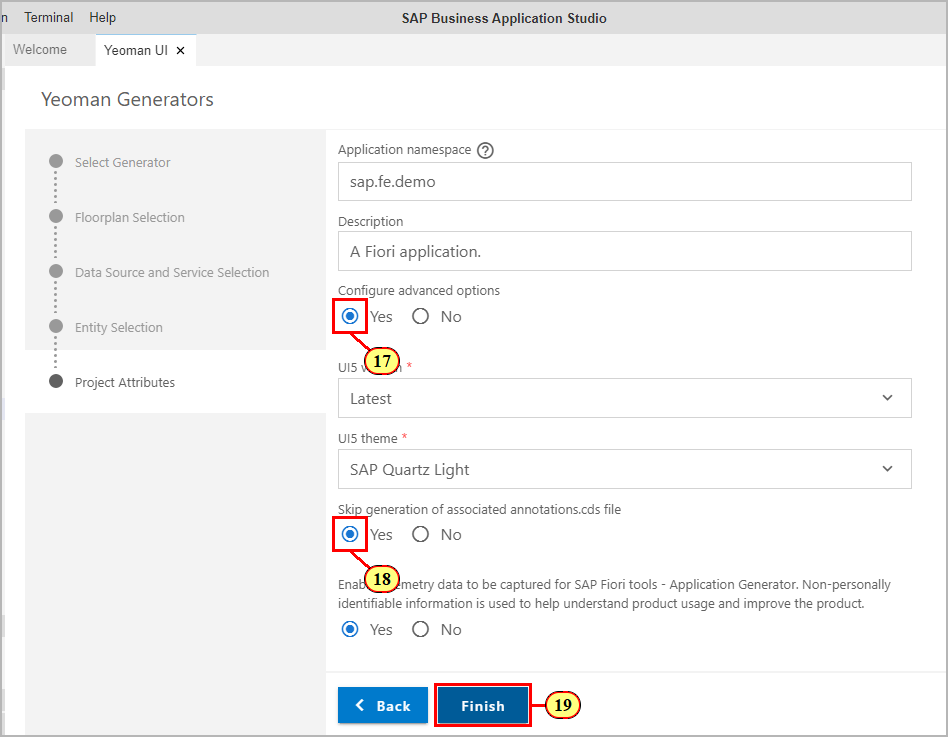
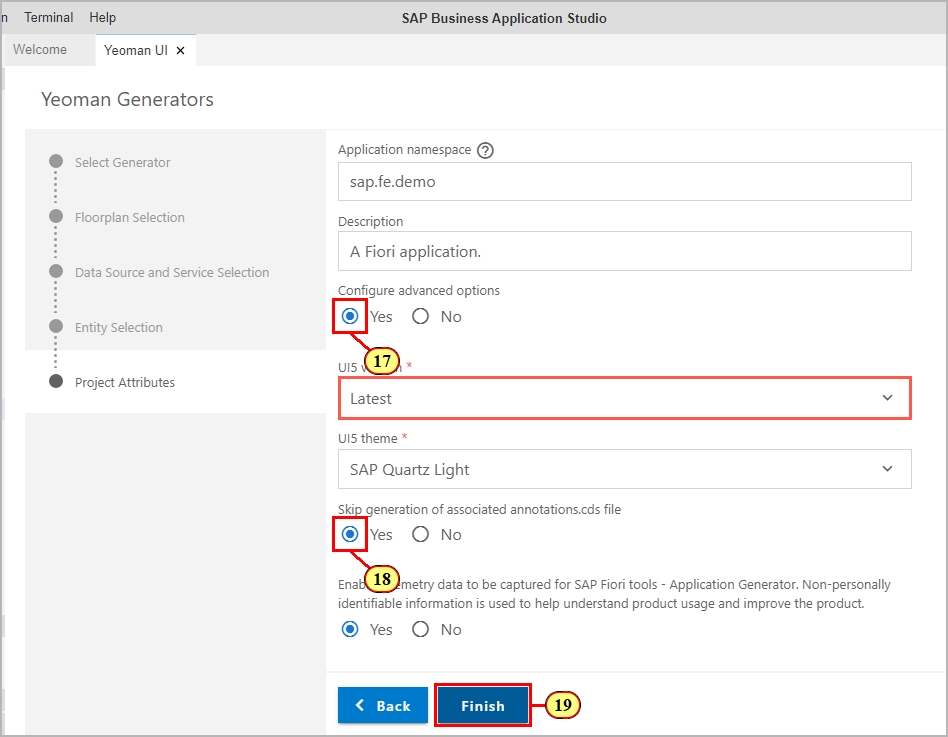
readme updated

Changed region(s): [[0.3671, 0.4993, 0.9789, 0.5617], [0.3671, 0.5617, 0.9483, 0.5929], [0.3365, 0.5305, 0.3671, 0.5617]]

diff --git a/exercises/ex1/README.md b/exercises/ex1/README.md
@@ -52,9 +52,9 @@ Report, showing data from the entity collection.\
 Leave value for drop down **Navigation Entity** to **None** since you want to show
 data of a single instance of the main entity on the object page, too.
 
-(13) Click ![](./images/image6.png).
-
 ![](./images/image15.png)
+
+(13) Click ![](./images/image6.png).
 
 Finally add some attributes to the application project.\
 The **Module name** and the **Application namespace** should be as shown below to keep aligned with the following exercises.\
@@ -68,16 +68,17 @@ some of the subsequent exercises to work properly)
 
 ![](./images/image17.png)
 
-(17) Select **Yes** in order to configure advanced options.
+(17) Select **Yes** in order to configure advanced options.\
+In drop down **UI5 version**, select **latest**.
 
 (18) Select **Yes** in order to skip generation of an
 additional associated annotation.cds file.\
 The sample service already provides a basic set of UI annotations in a
 corresponding file in app-\>annotation.cds.
 
-(19) Click ![](./images/image21.png).
-
 ![](./images/image18.png)
+
+(19) Click ![](./images/image21.png).
 
 This will start the app generation.\
 When done, a dialog appears asking for opening the app in a new workspace.\
